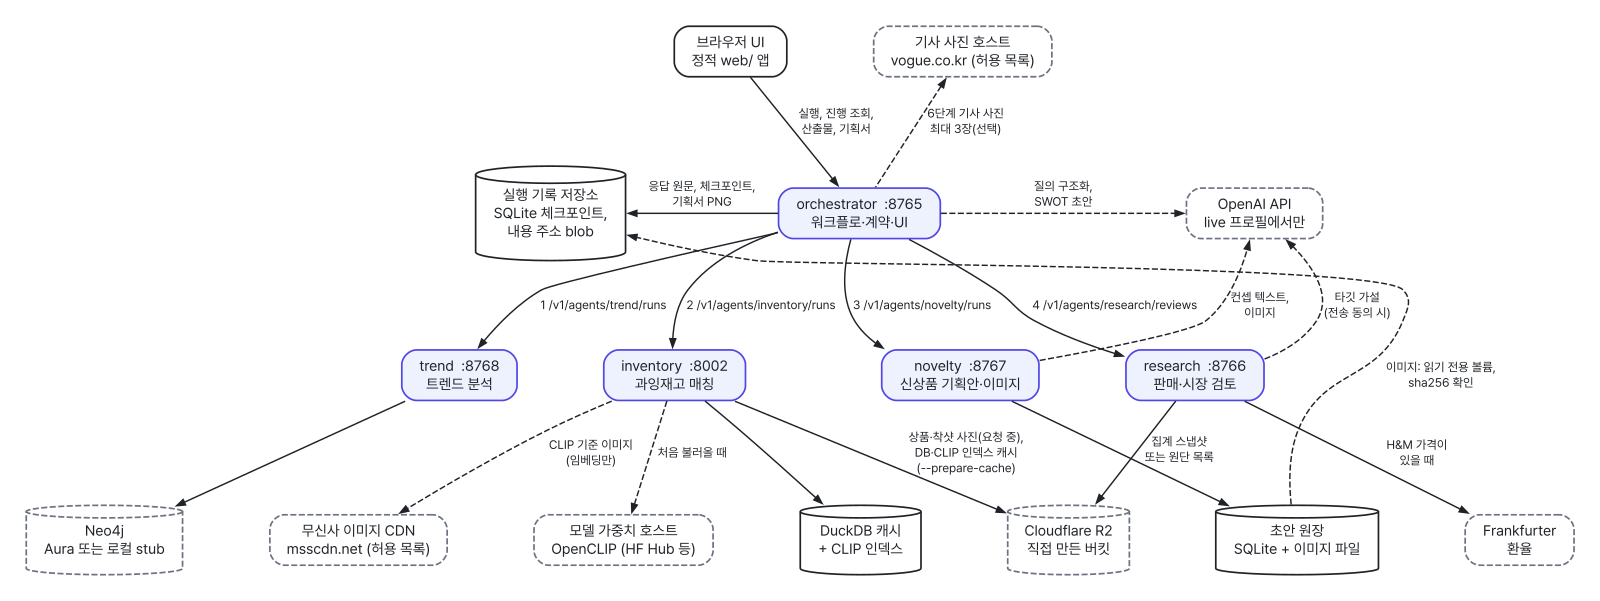
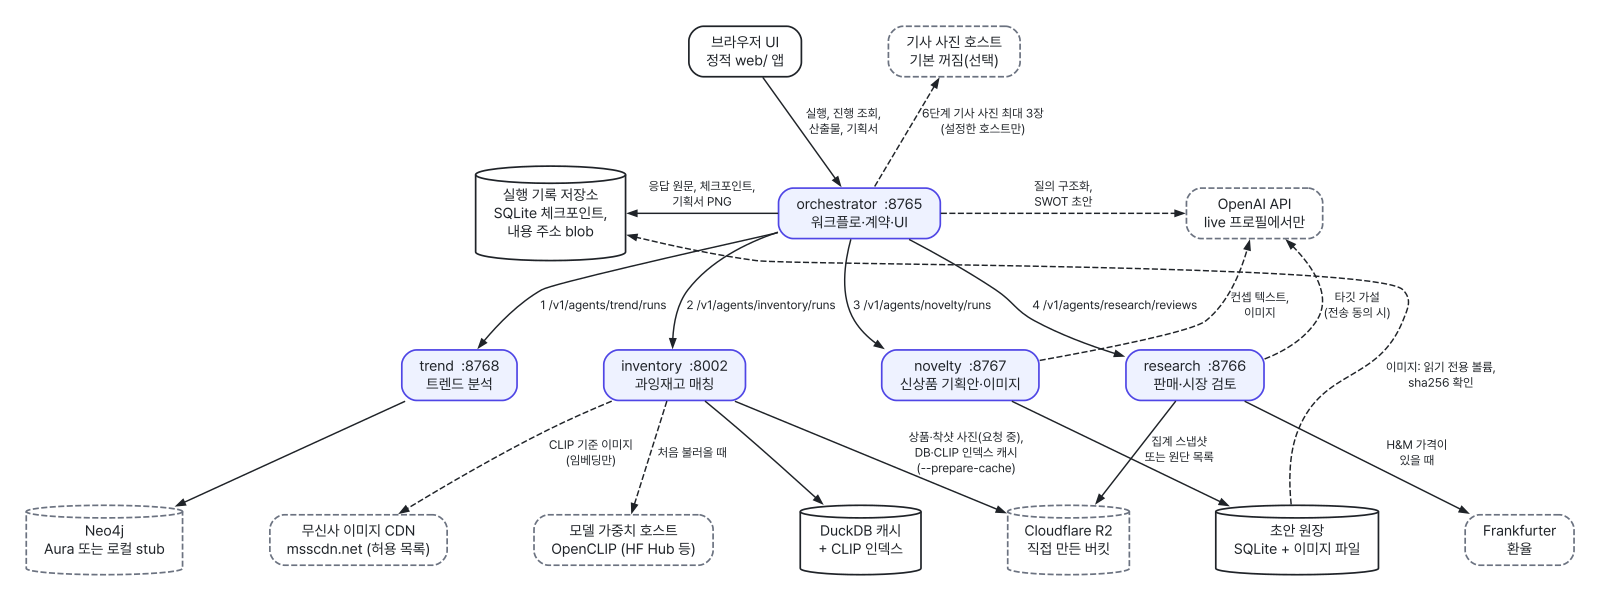
feat(trend-photos): Vogue 기사 사진을 링크로만 쓰고 다운로드는 배포자가 켤 때만 함
사용자 결정: 기사 사진은 trend 원칙('링크로만, 임베드·핫링크·다운로드 금지')에 맞춘다.
- 6단계 기사 사진 다운로드를 기본으로 끈다. ORCHESTRATOR_TREND_PHOTO_HOSTS 기본값을 비웠고, 호스트를 적었을 때만
  받는다. ORCHESTRATOR_TREND_PHOTOS_ENABLED=0은 호스트가 있어도 끈다. 기획서는 사진이 없으면 원래대로 '트렌드 기사
  이미지 없음' 칸을 그린다(planning_sheet.py 배치 변경 없음).
- UI trend 카드는 <img>로 사진을 불러오지 않고 원문 사진 링크만 보여 준다.
- CSP img-src에서 img.vogue.co.kr을 뺐다. UI가 바깥 이미지를 전혀 불러오지 않으므로, 호스트를 설정해도 CSP에 넣지
  않는다(설정한 호스트는 서버 쪽 6단계 다운로드에만 쓰인다).
- Compose: env 파일의 FASHION_PLANNER_TREND_PHOTO_HOSTS(기본 비움)를 ORCHESTRATOR_TREND_PHOTO_HOSTS로 넘긴다.
  .env.example과 init-env 템플릿에 '사용자 책임, 재배포 금지' 설명과 함께 빈 키를 더했다.
- 문서: README 고지·설정 표, architecture, data.md §3, deploy/README(켜는 방법), configs/README, CHANGELOG, 시스템·시퀀스
  그림('기본 꺼짐(선택)'), CLAIMS. CLAIMS의 workflow_http.py·server.py 줄 번호도 4d252ac과 이 변경 뒤의 위치로 옮겼다.
- 테스트: 기본 꺼짐, 호스트를 적을 때만 켜짐, 0이면 꺼짐, 빈 호스트면 workflow.trend_photos 없음, CSP img-src. 테스트용
  환경 초기화 목록에 두 사진 설정을 더했다.

검증: unittest 436 OK, node 27/27, freeze --check frozen, export --check 통과(trend aedb0ac, inventory b8204a4,
novelty 4d2535d, research 8a64c83), compose 정적 검사 3조합, 문서 링크 오류 0건. headless Chrome으로 trend 카드를 그려
<img> 0개, 사진 링크 3개를 확인했다.

Changed region(s): [[0.4062, 0.03, 0.6562, 0.2995], [0.5312, 0.03, 0.6562, 0.1498]]

diff --git a/web/js/render.js b/web/js/render.js
@@ -256,21 +256,14 @@ export function renderConcept(section, envelope, { retryEnabled = false, onRetry
 }
 
 // --- Trend -----------------------------------------------------------------
-// Cards carry the style and every item it cites, each with its Vogue article photos in a strip that scrolls
+// Cards carry the style and every item it cites, each with links to its article photos in a strip that scrolls
 // sideways inside the card; quotes, articles and the style's example-image links open in the side panel.
-// The browser loads the photos from img.vogue.co.kr directly (CSP img-src) without sending a Referer.
+// The photos are only linked: the page never loads them (no <img>, and the CSP admits no outside image host).
 
-function photoMissing(frame, text) {
-  frame.classList.add('is-missing');
-  fill(frame, h('span', {}, text));
-}
-
-function itemPhoto(name, url, index, total) {
-  const frame = h('a', { class: 'item-photo', href: url, target: '_blank', rel: 'noopener noreferrer', title: '원본 사진 새 탭에서 열기' });
-  const img = h('img', { src: url, alt: `${name} — Vogue 기사 사진${total > 1 ? ` ${index + 1}` : ''}`, loading: 'lazy', decoding: 'async', referrerpolicy: 'no-referrer' });
-  img.addEventListener('error', () => photoMissing(frame, '사진을 불러오지 못했습니다'), { once: true });
-  frame.append(img);
-  return frame;
+function itemPhotoLink(name, url, index, total) {
+  const label = `사진${total > 1 ? ` ${index + 1}` : ''} ↗`;
+  return h('a', { class: 'link', href: url, target: '_blank', rel: 'noopener noreferrer', referrerpolicy: 'no-referrer',
+    title: '원문 사진을 새 탭에서 열기', 'aria-label': `${name} — 기사 사진${total > 1 ? ` ${index + 1}` : ''} 원문 열기` }, label);
 }
 
 // Marks a strip that overflows its card (shows the hint and the right-edge fade) and whether it is scrolled to the end.
@@ -290,8 +283,8 @@ function itemStrip(tiles) {
     // An item without a photo is its name and a note, with no empty frame.
     h('ul', { class: 'item-list' }, tiles.map((tile) => tile.photos.length
       ? h('li', { class: 'item-tile' },
-          h('div', { class: 'item-photos' }, tile.photos.map((url, index) => itemPhoto(tile.name, url, index, tile.photos.length))),
-          h('span', { class: 'item-name' }, tile.name))
+          h('span', { class: 'item-name' }, tile.name),
+          h('p', { class: 'link-row item-links' }, tile.photos.map((url, index) => itemPhotoLink(tile.name, url, index, tile.photos.length))))
       : h('li', { class: 'item-tile is-photoless' },
           h('span', { class: 'item-name' }, tile.name),
           h('span', { class: 'item-none' }, '관련 사진 없음')))));

diff --git a/web/css/atelier.css b/web/css/atelier.css
@@ -514,7 +514,7 @@ body[data-run="running"] .btn-cta::before { opacity: 1; transform: scaleX(var(--
 .numeral { font-family: var(--font-display); font-size: 44px; line-height: 0.9; }
 
 /* Cited items: one strip per style card, scrolling sideways inside the card when it overflows.
-   Photos keep the Vogue portrait ratio (2:3); a name sits under each item's photos. */
+   Each item is its name and links to its article photos (the page never loads them). */
 .item-block { position: relative; display: flex; flex-direction: column; gap: 8px; margin-top: 2px; min-width: 0; }
 .item-count { margin: 0; display: flex; align-items: baseline; justify-content: space-between; gap: 8px; font-family: var(--font-label); font-size: 11.5px; letter-spacing: 0.08em; text-transform: uppercase; color: var(--graphite); }
 .item-hint { display: none; letter-spacing: 0; text-transform: none; font-family: var(--font-sans); }
@@ -527,19 +527,9 @@ body[data-run="running"] .btn-cta::before { opacity: 1; transform: scaleX(var(--
 .item-block.is-overflowing:not(.at-end) .item-strip { -webkit-mask-image: linear-gradient(90deg, #000 calc(100% - 44px), transparent); mask-image: linear-gradient(90deg, #000 calc(100% - 44px), transparent); }
 .item-strip:focus-visible { outline: 2px solid var(--ink); outline-offset: 3px; }
 .item-tile { flex: 0 0 auto; width: min-content; display: flex; flex-direction: column; gap: 7px; scroll-snap-align: start; }
-.item-photos { display: flex; gap: 6px; }
-.item-photo {
-  position: relative; display: block; flex: 0 0 auto; width: 100px; aspect-ratio: 2 / 3; overflow: hidden;
-  border-radius: 14px; background: #F1F1F0; border: 1px solid rgba(255, 255, 255, 0.95);
-  box-shadow: 0 22px 30px -26px rgba(0, 0, 0, 0.6); color: inherit; text-decoration: none;
-}
-.item-photo img { display: block; width: 100%; height: 100%; object-fit: cover; transition: transform var(--t-mid) var(--ease); }
-.item-photo:hover img { transform: scale(1.045); }
-.item-photo:focus-visible { outline: 2px solid var(--ink); outline-offset: 2px; }
-.item-photo.is-missing {
-  display: flex; align-items: flex-end; padding: 10px; background: rgba(255, 255, 255, 0.5);
-  border: 1px dashed rgba(0, 0, 0, 0.28); box-shadow: none; font-size: 11.5px; line-height: 1.4; color: var(--graphite);
-}
+.item-tile:not(.is-photoless) { width: 120px; }
+.item-links { gap: 6px; }
+.item-links .link { min-height: 28px; padding: 0 10px; font-size: 12px; white-space: nowrap; }
 .item-name { font-size: 12.5px; font-weight: 600; line-height: 1.35; letter-spacing: -0.01em; overflow-wrap: anywhere; }
 .item-tile.is-photoless { width: 100px; gap: 3px; }
 .item-none { font-size: 11.5px; line-height: 1.4; color: var(--graphite); }

diff --git a/web/js/model.js b/web/js/model.js
@@ -87,7 +87,8 @@ export function rail(result, { inFlight = false } = {}) {
 
 // --- Trend -----------------------------------------------------------------
 
-// The only photo origin the page's CSP admits (img-src); other URLs would be blocked, so they are not photos.
+// Trend article photos come from this origin. The page only links to them (it never loads them), and other URLs
+// in a photo field are not article photos, so they are dropped.
 export const TREND_PHOTO_ORIGIN = 'https://img.vogue.co.kr';
 
 export function trendPhotoUrl(value) {
@@ -95,7 +96,7 @@ export function trendPhotoUrl(value) {
   return url && new URL(url).origin === TREND_PHOTO_ORIGIN ? url : null;
 }
 
-// Every item a style cites, in order, with its own article photos (items[].image_urls). Items with the same
+// Every item a style cites, in order, with links to its own article photos (items[].image_urls). Items with the same
 // name are one tile; a tile without a usable photo is kept, so no cited item is dropped.
 export function itemTiles(items) {
   const tiles = new Map();

diff --git a/src/fashion_planner_orchestrator/trend_photos.py b/src/fashion_planner_orchestrator/trend_photos.py
@@ -5,8 +5,12 @@ from the URLs in the stored Trend result (``style.example_images``, then the ite
 them like any other image, and keeps them in the run's store; the planning-sheet route later renders from
 those stored bytes without network access.
 
-Rules: HTTPS only, hosts on an allowlist (``ORCHESTRATOR_TREND_PHOTO_HOSTS``, default ``vogue.co.kr`` and its
-subdomains), at most two redirects that must stay on the allowlist, a byte cap, a pixel cap, and the same decode
+Off by default: trend article photos are linked, not downloaded. A deployer who has the rights to use them turns
+this on by naming the hosts in ``ORCHESTRATOR_TREND_PHOTO_HOSTS`` (empty by default; the deployer is responsible
+for that use, and sheets with such photos are not to be redistributed). ``ORCHESTRATOR_TREND_PHOTOS_ENABLED=0``
+turns it off even with hosts set.
+
+Rules: HTTPS only, hosts on the allowlist and their subdomains, at most two redirects that must stay on the allowlist, a byte cap, a pixel cap, and the same decode
 checks as uploaded images. A photo that fails, including one with a malformed URL, is skipped; it never fails
 the run. Nothing about the photos is added to
 the integrated envelope (its contract is unchanged); the store records them under ``trend-photos:<request_id>``.
@@ -23,7 +27,7 @@ from urllib.parse import urljoin, urlsplit
 from .planning_sheet import trend_image_urls
 from .workflow_store import checked_image
 
-DEFAULT_HOSTS = ('vogue.co.kr',)
+DEFAULT_HOSTS: tuple[str, ...] = ()  # no host: stage 06 downloads nothing unless the deployer names hosts
 MAX_PHOTOS = 3
 CANDIDATES = 6
 MAX_PHOTO_BYTES = 5 * 1024 * 1024
@@ -42,11 +46,13 @@ class PhotoRejected(Exception):
 
 
 def enabled(env: Mapping[str, str] | None = None) -> bool:
-    return str((os.environ if env is None else env).get('ORCHESTRATOR_TREND_PHOTOS_ENABLED') or '1').strip() != '0'
+    """True only when hosts are named (ORCHESTRATOR_TREND_PHOTO_HOSTS) and ORCHESTRATOR_TREND_PHOTOS_ENABLED is not 0."""
+    switch = str((os.environ if env is None else env).get('ORCHESTRATOR_TREND_PHOTOS_ENABLED') or '1').strip() != '0'
+    return switch and bool(allowed_hosts(env))
 
 
 def allowed_hosts(env: Mapping[str, str] | None = None) -> tuple[str, ...]:
-    """ORCHESTRATOR_TREND_PHOTO_HOSTS: comma list of host names; each also admits its subdomains. Blank → vogue.co.kr."""
+    """ORCHESTRATOR_TREND_PHOTO_HOSTS: comma list of host names; each also admits its subdomains. Blank → none."""
     value = str((os.environ if env is None else env).get('ORCHESTRATOR_TREND_PHOTO_HOSTS') or '').strip().lower()
     hosts = tuple(host.strip().strip('.') for host in value.split(',') if host.strip().strip('.'))
     return hosts or DEFAULT_HOSTS

diff --git a/tests/test_trend_photos.py b/tests/test_trend_photos.py
@@ -41,8 +41,9 @@ class FakeGet:
 
 
 class SettingsTests(unittest.TestCase):
-    def test_hosts_default_to_vogue_and_admit_subdomains(self):
-        self.assertEqual(allowed_hosts({}), ('vogue.co.kr',))
+    def test_hosts_default_to_none_and_admit_subdomains(self):
+        self.assertEqual(allowed_hosts({}), ())
+        self.assertEqual(allowed_hosts({'ORCHESTRATOR_TREND_PHOTO_HOSTS': ' , '}), ())
         self.assertEqual(allowed_hosts({'ORCHESTRATOR_TREND_PHOTO_HOSTS': ' Img.Example.com , cdn.test. '}), ('img.example.com', 'cdn.test'))
         self.assertTrue(host_allowed('img.vogue.co.kr', HOSTS))
         self.assertTrue(host_allowed('vogue.co.kr', HOSTS))
@@ -50,10 +51,14 @@ class SettingsTests(unittest.TestCase):
         self.assertFalse(host_allowed('vogue.co.kr.evil.com', HOSTS))
         self.assertFalse(host_allowed(None, HOSTS))
 
-    def test_enabled_unless_set_to_zero(self):
-        self.assertTrue(enabled({}))
-        self.assertTrue(enabled({'ORCHESTRATOR_TREND_PHOTOS_ENABLED': '1'}))
-        self.assertFalse(enabled({'ORCHESTRATOR_TREND_PHOTOS_ENABLED': '0'}))
+    def test_off_unless_hosts_are_named(self):
+        # Article photos are linked, not downloaded, unless the deployer names the hosts (G1-19).
+        self.assertFalse(enabled({}))
+        self.assertFalse(enabled({'ORCHESTRATOR_TREND_PHOTOS_ENABLED': '1'}))
+        named = {'ORCHESTRATOR_TREND_PHOTO_HOSTS': 'vogue.co.kr'}
+        self.assertTrue(enabled(named))
+        self.assertTrue(enabled(dict(named, ORCHESTRATOR_TREND_PHOTOS_ENABLED='1')))
+        self.assertFalse(enabled(dict(named, ORCHESTRATOR_TREND_PHOTOS_ENABLED='0')))
 
     def test_urls_come_from_the_first_style_then_its_items(self):
         envelope = envelope_with_photos(['https://img.vogue.co.kr/a.jpg', 'https://img.vogue.co.kr/a.jpg'],

diff --git a/tests/test_blank_settings.py b/tests/test_blank_settings.py
@@ -49,7 +49,7 @@ class BlankSettingTests(unittest.TestCase):
             workflow.adapters['sales_market_review']({})
         self.assertIsNone(workflow.artifact_reader)
         self.assertIs(workflow.image, workflow_http.planning_sheet_image)  # the default stage 06 provider
-        self.assertEqual(workflow.trend_photos.hosts, ('vogue.co.kr',))  # blank hosts mean the default allowlist
+        self.assertIsNone(workflow.trend_photos)  # blank hosts mean no article photo download (the default)
         self.assertIsNone(workflow.swot)  # blank LLM settings mean no SWOT draft
         self.assertEqual(workflow.draft_mode, 'draft_with_visuals')
         self.assertEqual(wire.call_args_list[0].args, ('http://127.0.0.1:9/v1/agents/trend/runs', {}, 'test-token'))
@@ -72,6 +72,8 @@ class BlankSettingTests(unittest.TestCase):
             workflow.adapters['trend']({})
         self.assertEqual(wire.call_args_list[0].kwargs, dict(connect_timeout=3.0, read_timeout=210.0))
         self.assertEqual(wire.call_args_list[1].kwargs, dict(connect_timeout=3.0, read_timeout=75.0))
+        with environment(**dict(base, ORCHESTRATOR_TREND_PHOTO_HOSTS='vogue.co.kr')):
+            self.assertEqual(workflow_http.build_workflow().trend_photos.hosts, ('vogue.co.kr',))
         with environment(**dict(base, FASHION_PLANNER_SERVICE_TOKEN=' ')), \
                 self.assertRaisesRegex(ConnectorConfigurationError, 'FASHION_PLANNER_SERVICE_TOKEN is required'):
             workflow_http.build_workflow()  # a blank token is no token

diff --git a/src/fashion_planner_orchestrator/server.py b/src/fashion_planner_orchestrator/server.py
@@ -16,10 +16,9 @@ WEB_ROOT = Path(__file__).resolve().parents[2] / "web"
 for _mime, _suffix in (("text/javascript", ".js"), ("text/javascript", ".mjs"), ("text/css", ".css"),
                        ("font/woff2", ".woff2"), ("font/woff", ".woff"), ("image/svg+xml", ".svg")):
     mimetypes.add_type(_mime, _suffix)
-# img-src also admits img.vogue.co.kr: the trend cards show the items' Vogue article photos, loaded by the browser
-# without a Referer (a deliberate UI exception: elsewhere trend articles are only linked).
+# img-src admits no outside host: the trend cards only link to the article photos, they never load them.
 CONTENT_SECURITY_POLICY = ("default-src 'self'; script-src 'self'; style-src 'self'; font-src 'self'; "
-                           "img-src 'self' data: blob: https://img.vogue.co.kr; connect-src 'self'; object-src 'none'; "
+                           "img-src 'self' data: blob:; connect-src 'self'; object-src 'none'; "
                            "base-uri 'none'; frame-ancestors 'none'; form-action 'self'")
 
 ProviderFactory = Callable[[], tuple[Callable[[Any], Any], dict[str, Any]]]

diff --git a/tests/_http_support.py b/tests/_http_support.py
@@ -15,7 +15,7 @@ RUNTIME_KEYS = (
     'ORCHESTRATOR_WORKFLOW_ALLOW_PROPOSED', 'ORCHESTRATOR_WORKFLOW_CONTRACT_BASELINE', 'ORCHESTRATOR_WORKFLOW_STORE_DIR',
     'ORCHESTRATOR_PEER_ARTIFACT_ROOT', 'ORCHESTRATOR_WORKFLOW_IMAGE_PROVIDER', 'ORCHESTRATOR_WORKFLOW_IMAGE_RETRY_ENABLED',
     'ORCHESTRATOR_WORKFLOW_DRAFT_MODE', 'ORCHESTRATOR_WORKFLOW_DRAFT_READ_TIMEOUT_SECONDS', 'ORCHESTRATOR_WORKFLOW_INVENTORY_READ_TIMEOUT_SECONDS',
-    'ORCHESTRATOR_WORKFLOW_RESEARCH_READ_TIMEOUT_SECONDS',
+    'ORCHESTRATOR_WORKFLOW_RESEARCH_READ_TIMEOUT_SECONDS', 'ORCHESTRATOR_TREND_PHOTO_HOSTS', 'ORCHESTRATOR_TREND_PHOTOS_ENABLED',
     'ORCHESTRATOR_WORKFLOW_IMAGES_ENABLED', 'ORCHESTRATOR_HTTP_PRIVATE_HOSTS', 'FASHION_PLANNER_HTTP_DEV_MODE',
     'FASHION_PLANNER_SERVICE_TOKEN', 'ORCHESTRATOR_TREND_URL', 'ORCHESTRATOR_INVENTORY_URL',
     'ORCHESTRATOR_NOVELTY_URL', 'ORCHESTRATOR_RESEARCH_URL', 'ORCHESTRATOR_QUERY_STRUCTURING_MODE', 'OPENAI_API_KEY',

diff --git a/tests/test_static_assets.py b/tests/test_static_assets.py
@@ -46,7 +46,7 @@ class StaticAssetTests(LiveServerMixin, unittest.TestCase):
                     directives = dict(item.strip().split(' ', 1) for item in policy.split(';'))
                     self.assertEqual(directives, {
                         'default-src': "'self'", 'script-src': "'self'", 'style-src': "'self'", 'font-src': "'self'",
-                        'img-src': "'self' data: blob: https://img.vogue.co.kr", 'connect-src': "'self'", 'object-src': "'none'",
+                        'img-src': "'self' data: blob:", 'connect-src': "'self'", 'object-src': "'none'",
                         'base-uri': "'none'", 'frame-ancestors': "'none'", 'form-action': "'self'"})
 
 

diff --git a/deploy/scripts/bootstrap_env.py b/deploy/scripts/bootstrap_env.py
@@ -30,6 +30,8 @@ LAYOUT = (
     ("# --- every profile -------------------------------------------------------", None, None),
     ("FASHION_PLANNER_SERVICE_TOKEN", "generate", None),
     ("NEO4J_STUB_PASSWORD", "generate", None),
+    ("# --- trend article photos: off while blank; naming hosts is your responsibility (see deploy/.env.example) ---", None, None),
+    ("FASHION_PLANNER_TREND_PHOTO_HOSTS", "blank", None),
     ("# --- data profile (rehearsal, live): Cloudflare R2, copied from the service .env files ---", None, None),
     ("R2_ACCOUNT_ID", "copy:R2_ACCOUNT_ID", None),
     ("R2_BUCKET", "copy:R2_BUCKET", None),

diff --git a/docs/diagrams/CLAIMS.md b/docs/diagrams/CLAIMS.md
@@ -10,10 +10,10 @@
 |---|---|---|
 | orchestrator `:8765`, 브라우저 UI(정적 `web/`) | `src/fashion_planner_orchestrator/server.py:15`(WEB_ROOT), `:151`(기본 포트), `deploy/compose.yaml:195-196`(127.0.0.1에만 공개) | 파일 읽기 |
 | trend `:8768`, inventory `:8002`, novelty `:8767`, research `:8766` | `deploy/compose.yaml:177-180` | 파일 읽기 |
-| UI → orchestrator: 실행, 진행 조회, 산출물, 기획서 | `src/fashion_planner_orchestrator/workflow_http.py:314-324`(라우트 표) | 파일 읽기 |
+| UI → orchestrator: 실행, 진행 조회, 산출물, 기획서 | `src/fashion_planner_orchestrator/workflow_http.py:317-327`(라우트 표) | 파일 읽기 |
 | ① ~ ④ 서비스 호출 경로 | `src/fashion_planner_orchestrator/workflow_http.py:182-185` | 파일 읽기, `tests/test_workflow_routes.py` |
 | 실행 기록 저장소: SQLite 체크포인트, 내용 주소 blob | `src/fashion_planner_orchestrator/workflow_store.py:167-178` | 파일 읽기 |
-| 6단계 기사 사진: HTTPS, 허용 목록 `vogue.co.kr`, 최대 3장 | `src/fashion_planner_orchestrator/trend_photos.py:8,26-27` | `tests/test_trend_photos.py` |
+| 6단계 기사 사진: 기본 꺼짐, 설정한 호스트(`ORCHESTRATOR_TREND_PHOTO_HOSTS`)에서만, HTTPS, 최대 3장. UI는 링크만, CSP에 바깥 이미지 호스트 없음 | `src/fashion_planner_orchestrator/trend_photos.py:8-11,30-31,48-58`, `src/fashion_planner_orchestrator/server.py:19-22`, `web/js/render.js`(`itemPhotoLink`), `deploy/compose.yaml`(`FASHION_PLANNER_TREND_PHOTO_HOSTS`) | `tests/test_trend_photos.py` |
 | orchestrator → OpenAI: 질의 구조화, SWOT 초안(live에서만) | `src/fashion_planner_orchestrator/llm_provider.py:9,77`, `src/fashion_planner_orchestrator/swot.py:225-238`, `deploy/compose.paid.yaml:10-11` | 파일 읽기 |
 | trend → Neo4j(Aura 또는 로컬 stub) | `fashion-planner-trend/src/fashion_planner_trend/config.py:79`(`neo4j_settings`), `:93-121`(`neo4j_driver_args`, `neo4j_driver`), `deploy/compose.stub.yaml:13,56`, `deploy/compose.data.yaml:18` | 파일 읽기 |
 | inventory → DuckDB 캐시 + CLIP 인덱스 | `fashion-planner-inventory/fashion_planner_inventory/api.py:101`(DB 읽기 전용), `:137-165`(`clip_index_path`, `warm_up_clip`) | 파일 읽기 |
@@ -31,8 +31,8 @@
 
 | 요소 | 근거 | 확인 방법 |
 |---|---|---|
-| `fashion-planner-workflow`, POST `/api/workflow/run`·`/v1/orchestrations`, 응답 integrated-result | `src/fashion_planner_orchestrator/workflow_contract.py`(`VERSION`), `contracts/workflow/integrated-result.schema.json`, `src/fashion_planner_orchestrator/workflow_http.py:315,355` | `python scripts/freeze_workflow_contract.py --check` |
-| md-decision 요청 | `src/fashion_planner_orchestrator/workflow_http.py:323`, `src/fashion_planner_orchestrator/workflow_store.py:30`, `contracts/agents/orchestrator/input/md-decision-request.contract.json` | `tests/test_workflow_routes.py` |
+| `fashion-planner-workflow`, POST `/api/workflow/run`·`/v1/orchestrations`, 응답 integrated-result | `src/fashion_planner_orchestrator/workflow_contract.py`(`VERSION`), `contracts/workflow/integrated-result.schema.json`, `src/fashion_planner_orchestrator/workflow_http.py:318,358` | `python scripts/freeze_workflow_contract.py --check` |
+| md-decision 요청 | `src/fashion_planner_orchestrator/workflow_http.py:326`, `src/fashion_planner_orchestrator/workflow_store.py:30`, `contracts/agents/orchestrator/input/md-decision-request.contract.json` | `tests/test_workflow_routes.py` |
 | ① `trend-handoff`: TrendQuery → TrendAnalysisResult | `contracts/agents/trend/input/trend-query.contract.json`, `contracts/agents/trend/output/trend-analysis-result.contract.json`, `fashion-planner-trend/src/fashion_planner_trend/api/server.py:24` | `python scripts/export_agent_contracts.py --check` |
 | ② `inventory-handoff`: trend 결과를 그대로 → inventory 결과 | `contracts/agents/inventory/`, `fashion-planner-inventory/fashion_planner_inventory/api.py:47` | 같음 |
 | ③ `novelty-handoff`: 기획 요청 + 투영(`novelty-input-projection`) → 초안 + 이미지 | `src/fashion_planner_orchestrator/upstream_projection.py:19,61-63`, `contracts/workflow/planning-draft-request.schema.json`, `contracts/workflow/planning-draft-response.schema.json`, `contracts/agents/novelty/input/handoff-request.contract.json` | 같음, `tests/test_upstream_projection.py` |
@@ -52,9 +52,9 @@
 
 | 요소 | 근거 | 확인 방법 |
 |---|---|---|
-| 요청과 계약 게이트, 질의 구조화 | `src/fashion_planner_orchestrator/workflow_http.py:315`, `src/fashion_planner_orchestrator/server.py:58` | `tests/test_workflow_gate.py`, `tests/test_ui_query_structuring.py` |
+| 요청과 계약 게이트, 질의 구조화 | `src/fashion_planner_orchestrator/workflow_http.py:318`, `src/fashion_planner_orchestrator/server.py:57` | `tests/test_workflow_gate.py`, `tests/test_ui_query_structuring.py` |
 | 1~4단계 호출 순서와 경로 | `src/fashion_planner_orchestrator/workflow_contract.py:21`(`STAGES`), `src/fashion_planner_orchestrator/workflow_http.py:182-185` | `tests/test_workflow.py` |
 | novelty 이미지: `artifact://novelty/images/<sha256>.<확장자>`(지금은 `.png`), 읽기 전용 볼륨, sha256 확인 | `src/fashion_planner_orchestrator/workflow.py:242,255`, `deploy/compose.yaml:199-204` | `tests/test_workflow_artifacts.py` |
 | 멈춤 규칙: error면 멈춤, trend·novelty no_results면 no_results, research no_results면 partial로 멈추고 통합·기획서 없음 | `src/fashion_planner_orchestrator/workflow.py:493-503,407-411` | `tests/test_workflow.py` |
-| 5단계 통합, 6단계 기사 사진·SWOT·기획서 PNG(3200 px, 이미지 모델 호출 없음) | `src/fashion_planner_orchestrator/workflow.py:405-416`, `src/fashion_planner_orchestrator/trend_photos.py:26-27`, `src/fashion_planner_orchestrator/swot.py:225`, `src/fashion_planner_orchestrator/planning_sheet.py:908-909`, `src/fashion_planner_orchestrator/workflow_http.py:100,121` | `tests/test_planning_sheet.py` |
-| 이후: md-decision(adopt, revise, hold; 추가만) | `src/fashion_planner_orchestrator/workflow_store.py:30`, `src/fashion_planner_orchestrator/workflow_http.py:323` | `tests/test_workflow_routes.py` |
+| 5단계 통합, 6단계 기사 사진·SWOT·기획서 PNG(3200 px, 이미지 모델 호출 없음) | `src/fashion_planner_orchestrator/workflow.py:405-416`, `src/fashion_planner_orchestrator/trend_photos.py:30-31`, `src/fashion_planner_orchestrator/swot.py:225`, `src/fashion_planner_orchestrator/planning_sheet.py:908-909`, `src/fashion_planner_orchestrator/workflow_http.py:100,121` | `tests/test_planning_sheet.py` |
+| 이후: md-decision(adopt, revise, hold; 추가만) | `src/fashion_planner_orchestrator/workflow_store.py:30`, `src/fashion_planner_orchestrator/workflow_http.py:326` | `tests/test_workflow_routes.py` |

diff --git a/README.md b/README.md
@@ -39,7 +39,7 @@ MD가 "2027년 봄 발레코어에서 유행하는 핑크색 상의를 기획하
 
 <picture>
   <source media="(prefers-color-scheme: dark)" srcset="docs/diagrams/system-dark.svg">
-  <img alt="시스템 전체: 브라우저 UI가 orchestrator를 부르고, orchestrator가 trend, inventory, novelty, research를 차례로 부른다. 서비스별 저장소와 외부 시스템(Neo4j, Cloudflare R2, OpenAI, 환율 API, 기사 사진 호스트, 무신사 이미지 CDN, 모델 가중치 호스트)이 함께 보인다" src="docs/diagrams/system.svg" width="900">
+  <img alt="시스템 전체: 브라우저 UI가 orchestrator를 부르고, orchestrator가 trend, inventory, novelty, research를 차례로 부른다. 서비스별 저장소와 외부 시스템(Neo4j, Cloudflare R2, OpenAI, 환율 API, 기사 사진 호스트(기본 꺼짐), 무신사 이미지 CDN, 모델 가중치 호스트)이 함께 보인다" src="docs/diagrams/system.svg" width="900">
 </picture>
 
 <picture>
@@ -59,7 +59,7 @@ MD가 "2027년 봄 발레코어에서 유행하는 핑크색 상의를 기획하
 - **추적 가능한 실행 기록.** 응답 원문은 SHA-256 내용 주소 blob, 단계 상태는 SQLite 체크포인트로 남긴다. 같은 요청은
   저장된 결과로 답하고, 결과를 모르는 유료 호출은 다시 보내지 않는다.
 - **질의 구조화.** LLM은 원문을 쪼개고 표준 값을 제안만 하고, 값 확정(trend 어휘·별칭 사전)과 조립은 코드가 한다.
-- **기획서 PNG.** 초점 트렌드와 기사 사진, 매칭된 재고, 신상품 콘셉트와 이미지, 판매·시장 값, 선택적인 SWOT 초안을 담은
+- **기획서 PNG.** 초점 트렌드(기사 사진은 배포자가 켤 때만), 매칭된 재고, 신상품 콘셉트와 이미지, 판매·시장 값, 선택적인 SWOT 초안을 담은
   가로 3200 px 포스터. 실행 기록만으로 결정적으로 그리고 이미지 모델은 부르지 않는다.
 - **네트워크 경계.** orchestrator만 127.0.0.1에 공개하고, 서비스 호출은 공용 bearer 토큰과 HTTPS(또는 명시한 내부 호스트의
   평문 HTTP)만 쓴다.
@@ -110,7 +110,7 @@ UI, 질의 구조화(합성 초안), 저장된 실행 조회는 혼자 동작한
 | `ORCHESTRATOR_QUERY_STRUCTURING_MODE` | LLM | `synthetic_fixture`면 오프라인 합성 초안 |
 | `LLM_MODEL`, `LLM_API_KEY` | 없음 | 질의 구조화와 SWOT 초안의 LLM |
 | `ORCHESTRATOR_WORKFLOW_IMAGES_ENABLED` | 꺼짐 | `1`이면 6단계 기획서를 그린다 |
-| `ORCHESTRATOR_TREND_PHOTOS_ENABLED` | 켜짐 | `0`이면 기획서에 넣을 기사 사진을 받지 않는다([고지](#고지)) |
+| `ORCHESTRATOR_TREND_PHOTO_HOSTS` | 비어 있음(받지 않음) | 기획서에 넣을 기사 사진을 받을 호스트. 적을 때만 받는다([고지](#고지)) |
 
 ## 데이터
 
@@ -206,10 +206,11 @@ python scripts/freeze_workflow_contract.py --check
 
 - 이 프로젝트는 학습·교육 목적의 비상업 프로젝트입니다. Condé Nast, Vogue Korea(두산매거진), 무신사, H&M과 관련이 없으며 이들의 승인이나 후원을 받지 않았습니다. 'Vogue'는 해당 권리자의 상표입니다.
 - 이 레포에는 제3자 데이터(기사 원문, 이미지, 상품·거래 데이터)가 들어 있지 않습니다. 데이터를 직접 받아 쓰는 경우 각 출처의 이용약관을 따라야 합니다. 자세한 내용은 `docs/data.md`를 보세요.
-- 기본 설정에서 6단계는 초점 트렌드의 기사 사진을 허용 목록의 호스트(기본 `vogue.co.kr`)에서 최대 3장 받아 로컬 실행
-  기록에 저장하고 기획서에 넣으며, UI의 트렌드 카드도 같은 호스트의 사진을 브라우저에서 직접 불러옵니다. 이 사진의
-  권리는 권리자에게 있습니다. 사진이 들어간 기획서 PNG와 실행 기록은 공유하거나 공개하지 마세요.
-  `ORCHESTRATOR_TREND_PHOTOS_ENABLED=0`으로 사진 받기를 끌 수 있습니다.
+- 기사 사진은 링크로만 씁니다. UI의 트렌드 카드는 사진을 불러오지 않고 원문 링크만 보여 주고, 기본 설정의 기획서에는
+  기사 사진 대신 '트렌드 기사 이미지 없음'이 들어갑니다. 배포자가 `ORCHESTRATOR_TREND_PHOTO_HOSTS`(Compose에서는 env 파일의
+  `FASHION_PLANNER_TREND_PHOTO_HOSTS`)에 호스트를 적으면 6단계가 그 호스트에서 사진을 최대 3장 받아 실행 기록에 저장하고
+  기획서에 넣습니다. 이렇게 켜는 것은 배포자의 책임이고, 사진의 권리는 권리자에게 있습니다. 사진이 들어간 기획서 PNG와
+  실행 기록은 다시 배포하지 마세요.
 
 ## 라이선스
 
